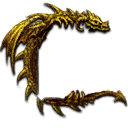
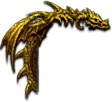
Remove the frame dragon's tail
The tail piece of UI-DialogBox-Gold-Dragon reached into the first frame's
content. The texture build script now clears it (and trims the image);
CSS size/position updated so the dragon stays in the same spot.

diff --git a/css/styles.css b/css/styles.css
@@ -191,10 +191,10 @@ code {
 /* UI-DialogBox-Gold-Dragon on the frame's top-left corner */
 .frame--dragon .frame__dragon {
   position: absolute;
-  top: -12px;
+  top: -10px;
   left: -30px;
-  width: 128px;
-  height: 128px;
+  width: 112px;                 /* dragon.png is 112x102 (tail removed, trimmed) */
+  height: 102px;
   z-index: 3;
   pointer-events: none;
   background: url("../assets/ui/dragon.png") center / contain no-repeat;
@@ -756,6 +756,6 @@ code {
 
 @media (max-width: 600px) {
   .frame { padding: 44px 24px 26px; }
-  .frame--dragon .frame__dragon { width: 88px; height: 88px; top: -10px; left: -20px; }
+  .frame--dragon .frame__dragon { width: 77px; height: 70px; top: -9px; left: -20px; }
   .path-row { flex-direction: column; align-items: stretch; }
 }

diff --git a/tools/build-ui-textures.py b/tools/build-ui-textures.py
@@ -54,6 +54,18 @@ def crop_alpha(im):
     return im.crop(im.getchannel("A").getbbox())
 
 
+def remove_dragon_tail(im):
+    """UI-DialogBox-Gold-Dragon has a separate tail piece along the bottom that would reach into the
+    frame's content. Clear it (everything right of the body below y=80, and right of x=34 below y=97)."""
+    im = im.copy()
+    px = im.load()
+    for y in range(80, im.height):
+        x0 = 42 if y < 97 else 34
+        for x in range(x0, im.width):
+            px[x, y] = (0, 0, 0, 0)
+    return crop_alpha(im)
+
+
 def main():
     os.makedirs(OUT, exist_ok=True)
     print("Writing to", os.path.normpath(OUT))
@@ -65,7 +77,7 @@ def main():
     save(fetch("DialogFrame/UI-DialogBox-Background"), "frame-background")
     save(crop_alpha(fetch("DialogFrame/UI-DialogBox-Gold-Header")), "header-gold")
     save(crop_alpha(fetch("DialogFrame/UI-DialogBox-Divider")), "divider")
-    save(fetch("DialogFrame/UI-DialogBox-Gold-Dragon"), "dragon")
+    save(remove_dragon_tail(fetch("DialogFrame/UI-DialogBox-Gold-Dragon")), "dragon")
     save(fetch("FrameGeneral/UI-Background-Rock"), "page-background")
 
     # Red panel button: the game uses texcoords 0..0.625 x 0..0.6875 (80x22 of 128x32)

diff --git a/README.md b/README.md
@@ -54,7 +54,8 @@ It finds the newest `Auctionator.lua` under `WOW_ROOT` (env var; defaults to the
     buttons, edit boxes, check boxes, item slots, auction rows, highlights, coins) from `assets/ui/`.
   - `assets/ui/`: those textures, built by `python tools/build-ui-textures.py` (needs Pillow) from
     [Gethe/wow-ui-textures](https://github.com/Gethe/wow-ui-textures) (`classic` branch). The script only
-    crops them and rearranges border "edge files" into 9-slice images for CSS `border-image`.
+    crops them, rearranges border "edge files" into 9-slice images for CSS `border-image`, and removes the
+    gold dragon's tail so it doesn't reach into the frame.
     The art belongs to Blizzard Entertainment; this is a non-commercial fan tool.
   - `components/`: one file per UI piece, each a plain script that registers on `window.UI`
     (`money.js`, `file-loader.js`, `filters.js`, `results-table.js`). Plain scripts rather than ES modules,
